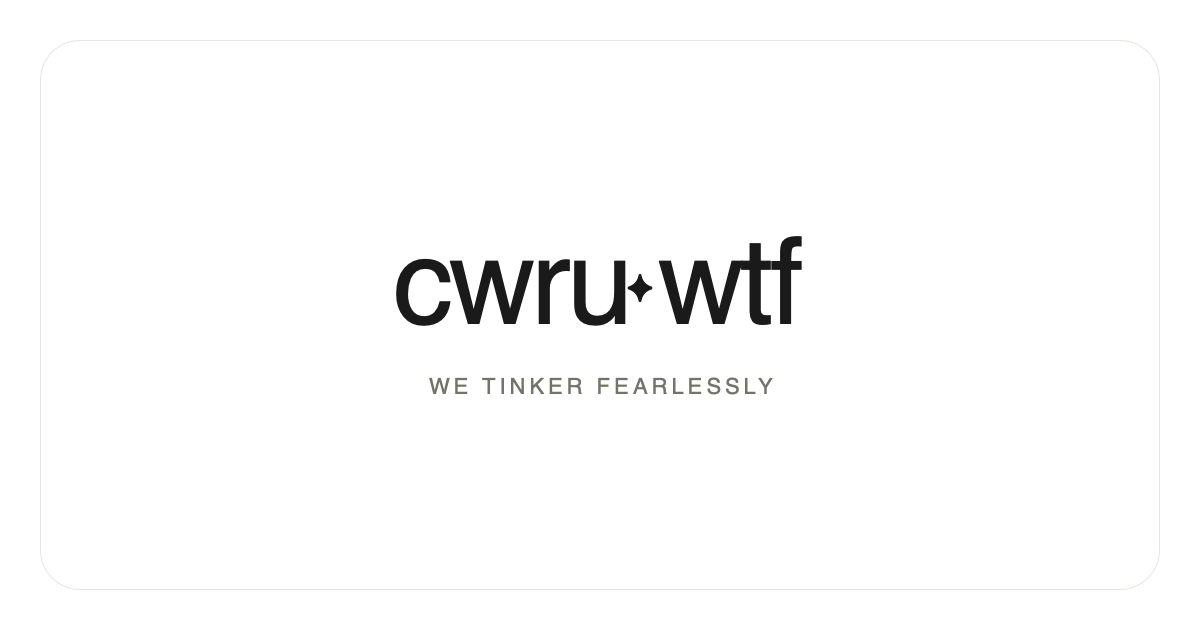
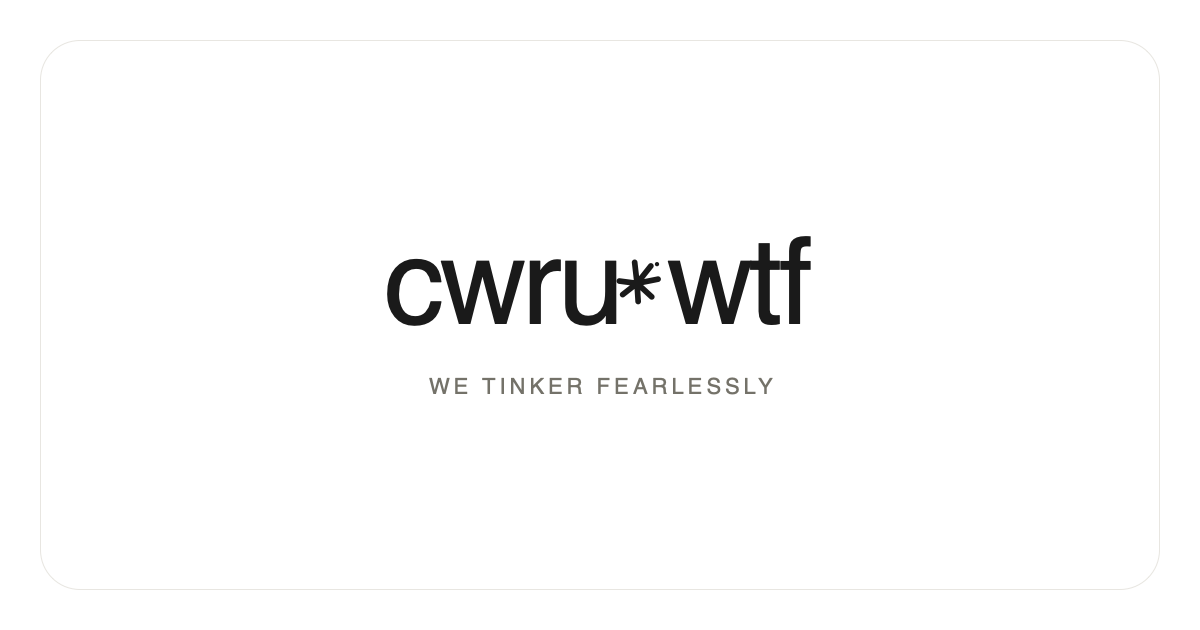
Replace the spark with an expansion mark

Changed region(s): [[0.3083, 0.3619, 0.6783, 0.5127]]

diff --git a/apps/cwru-wtf/components/brand-expansion-mark.tsx b/apps/cwru-wtf/components/brand-expansion-mark.tsx
@@ -1,0 +1,27 @@
+import type { SVGProps } from "react"
+
+export default function BrandExpansionMark({
+  className,
+  ...props
+}: SVGProps<SVGSVGElement>) {
+  return (
+    <svg
+      {...props}
+      aria-hidden="true"
+      className={className}
+      fill="none"
+      focusable="false"
+      viewBox="0 0 16 16"
+    >
+      <path
+        d="M7.35 8.45 6.55 1.45M7.35 8.45l4.6-5.8M7.35 8.45l7-1.4M7.35 8.45l4.9 4.5M7.35 8.45l.37 6.05M7.35 8.45l-4.8 3.75M7.35 8.45l-5.9-.77"
+        stroke="currentColor"
+        strokeLinecap="round"
+        strokeLinejoin="round"
+        strokeWidth="1.9"
+      />
+      <circle cx="7.35" cy="8.45" fill="currentColor" r="1.48" />
+      <circle cx="14" cy="2.05" fill="currentColor" r="0.72" />
+    </svg>
+  )
+}

diff --git a/apps/cwru-wtf/components/wordmark.tsx b/apps/cwru-wtf/components/wordmark.tsx
@@ -1,10 +1,10 @@
-import BrandSpark from "@/components/brand-spark"
+import BrandExpansionMark from "@/components/brand-expansion-mark"
 
 export default function Wordmark() {
   return (
     <span aria-label="cwru.wtf" className="whitespace-nowrap" role="img">
       <span aria-hidden="true">cwru</span>
-      <BrandSpark className="mx-[0.015em] inline-block size-[0.24em] shrink-0 align-[-0.015em]" />
+      <BrandExpansionMark className="mx-[0.03em] inline-block size-[0.42em] shrink-0 align-[0.06em]" />
       <span aria-hidden="true">wtf</span>
     </span>
   )
